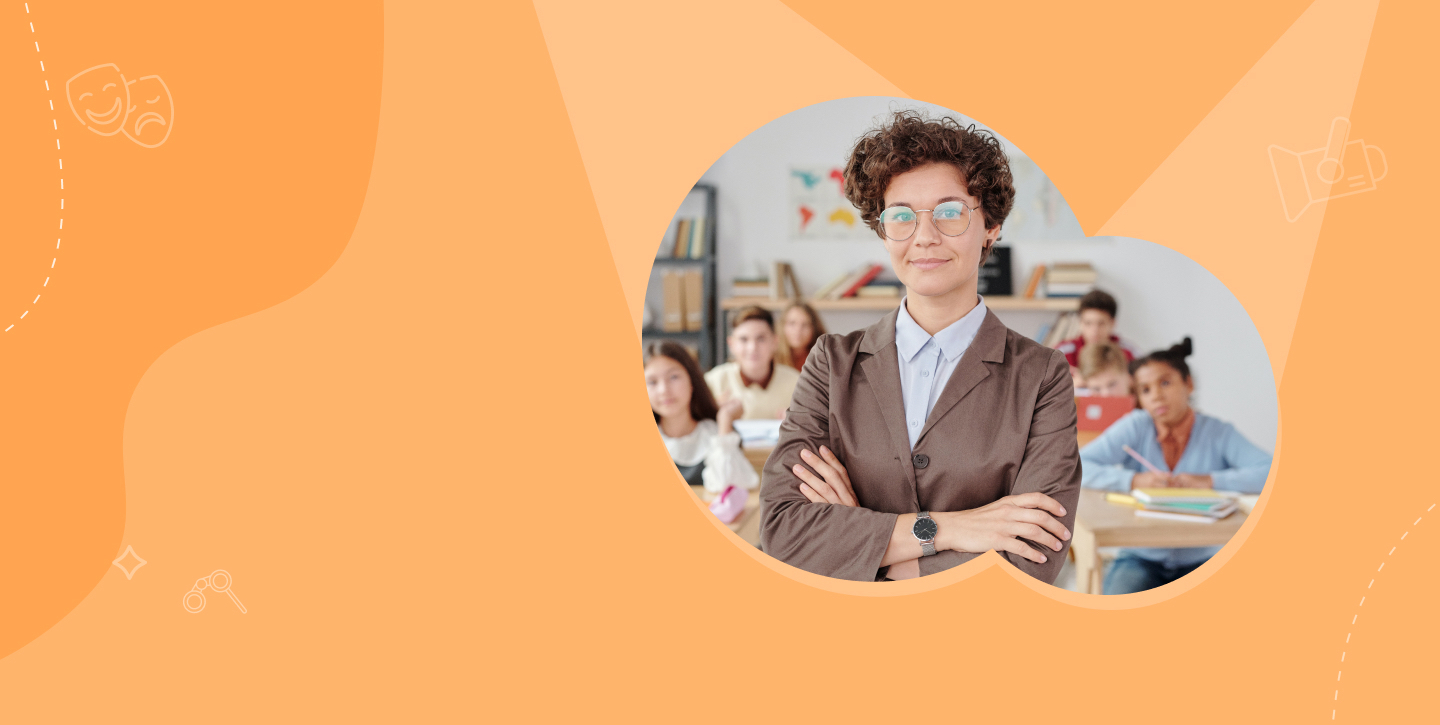
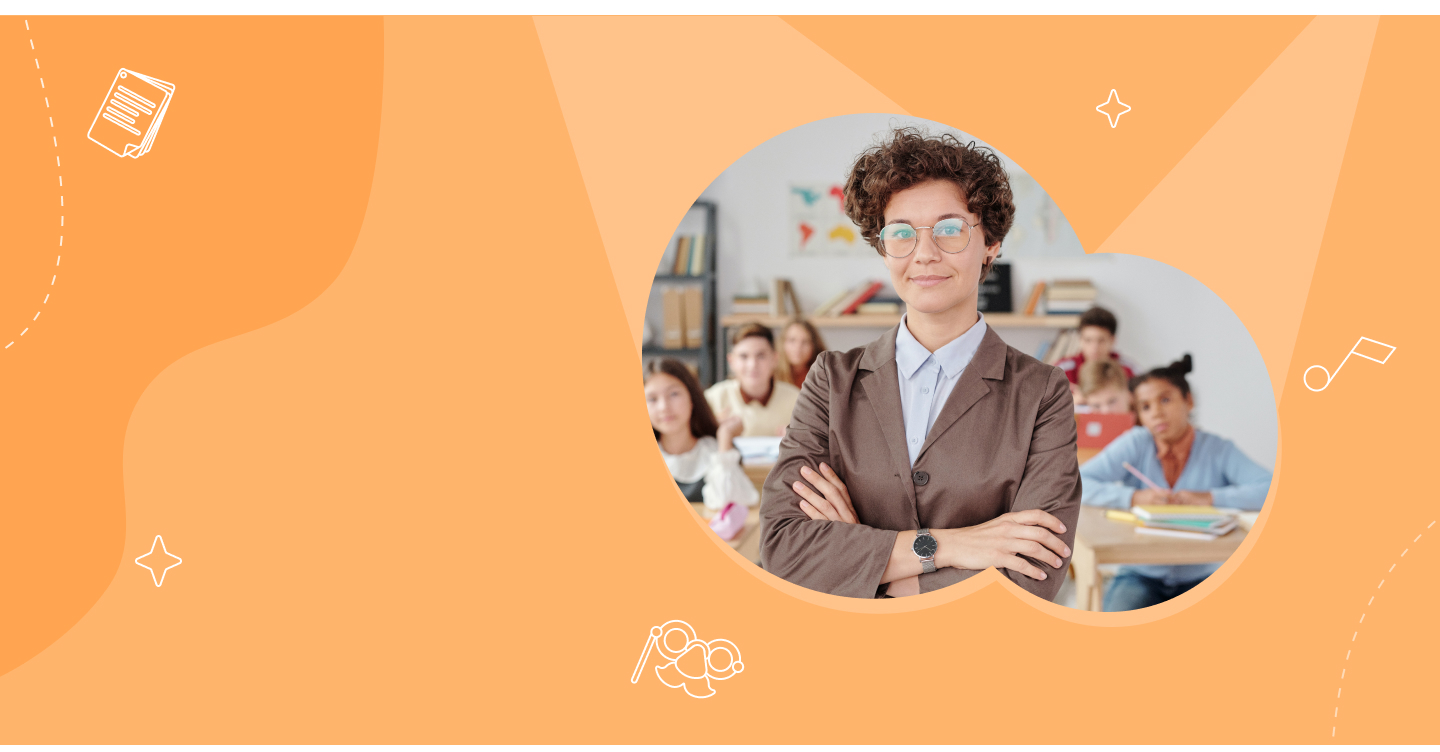
edits

diff --git a/assets/css/insegnanti-style.css b/assets/css/insegnanti-style.css
@@ -75,7 +75,7 @@
 --------------------------------------------------------------*/
 .teacher{
   width: 100%;
-  background: url("../img/insegnanti/funzionamento-hero.jpg") top center no-repeat;
+  background: none;
   background-size: cover;
   position: relative;
   padding: 80px 0;
